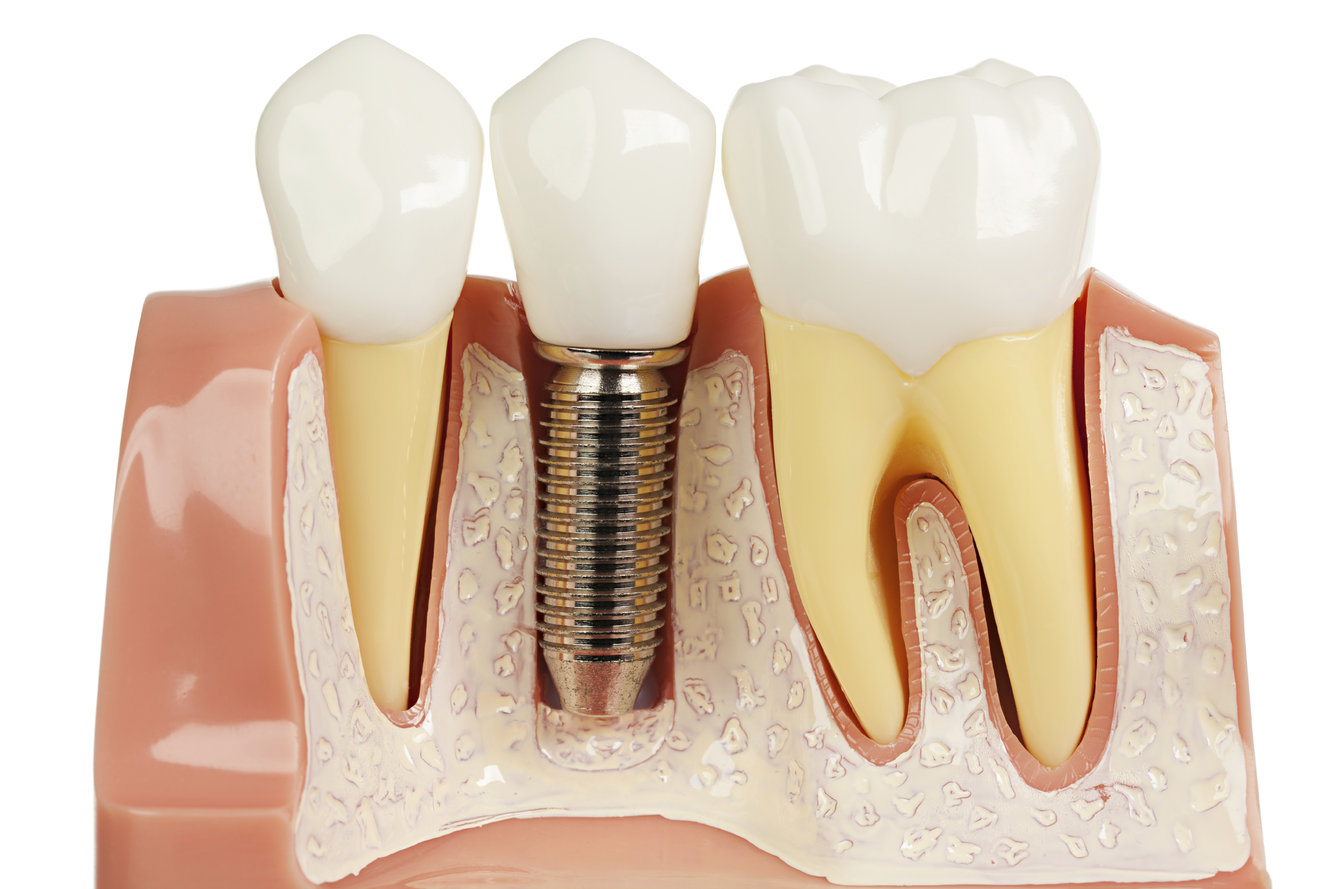
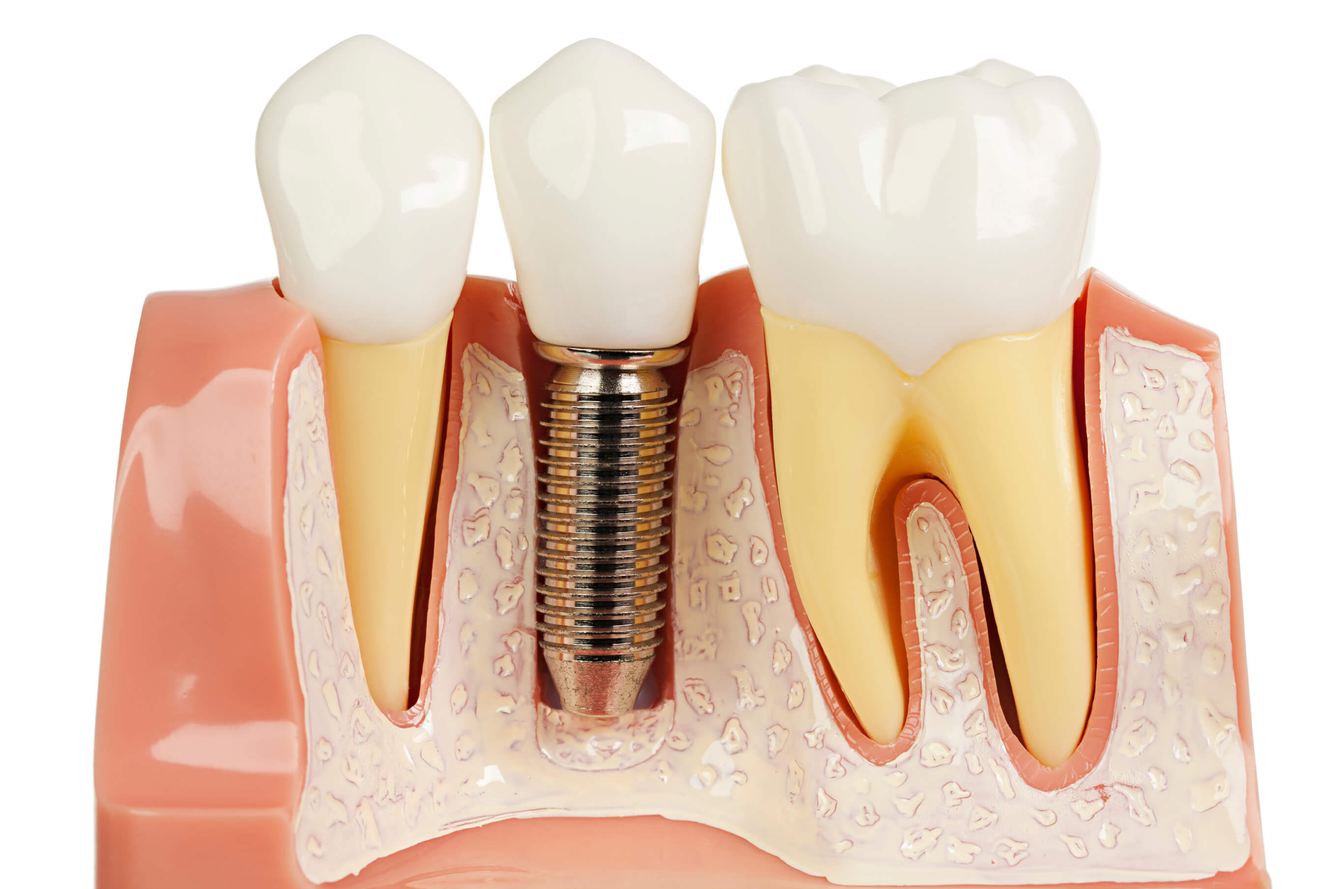
optimied some imsages

diff --git a/app.js b/app.js
@@ -137,7 +137,7 @@ function fadeIn(el) {
   el.style.opacity = 0;
 
   const tick = () => {
-    el.style.opacity = +el.style.opacity + 0.04;
+    el.style.opacity = +el.style.opacity + 0.05;
 
 
     if (+el.style.opacity < 1) {

diff --git a/style.css b/style.css
@@ -134,7 +134,7 @@ h1 + h4 {
 .wrap {
   width: 100%;
   height: 90vh;
-  background-color: rgba(34, 34, 34, .9);
+  background-color: rgba(119, 117, 117, 0.4);
 }
 
 .section-hero-1 {
